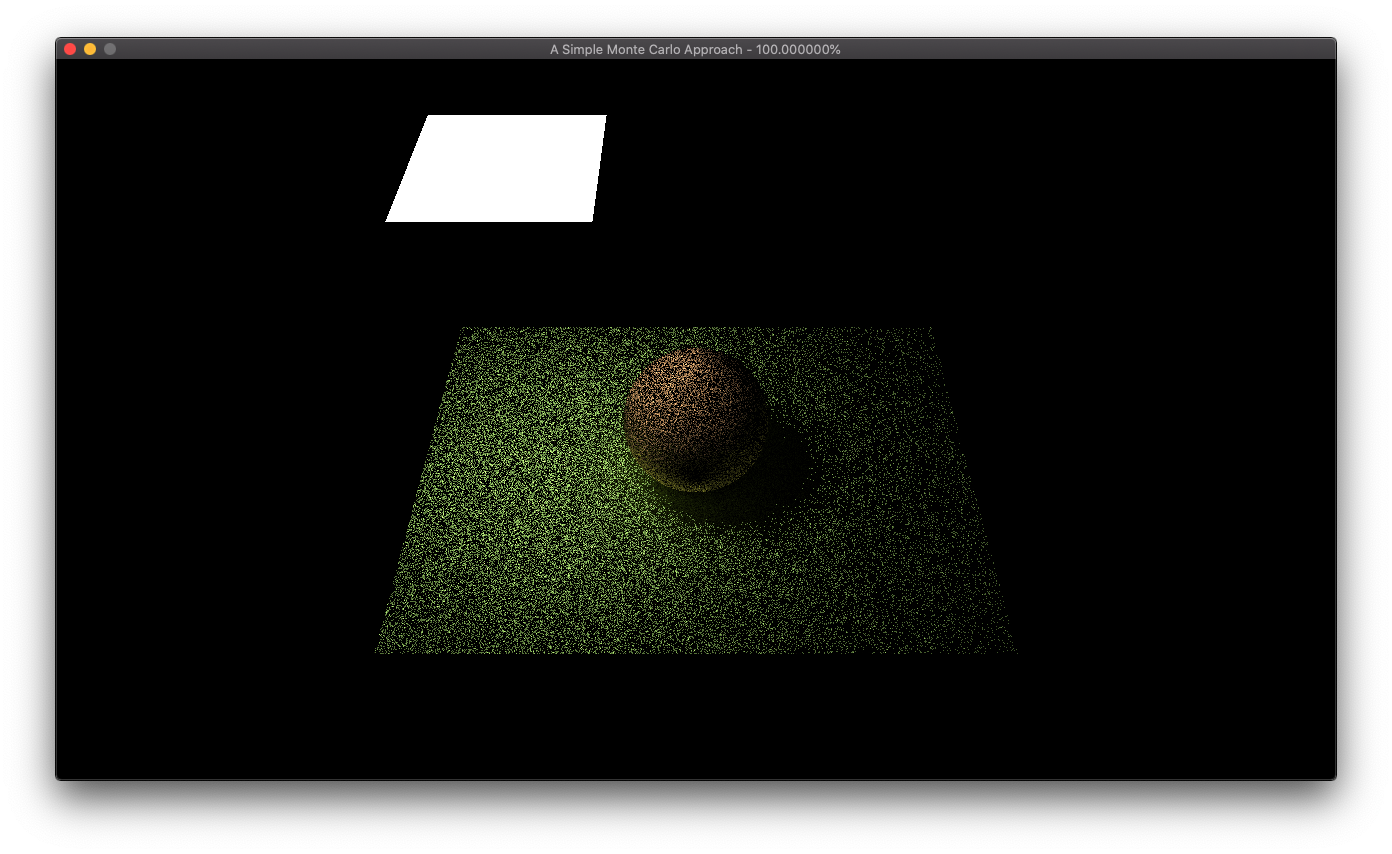
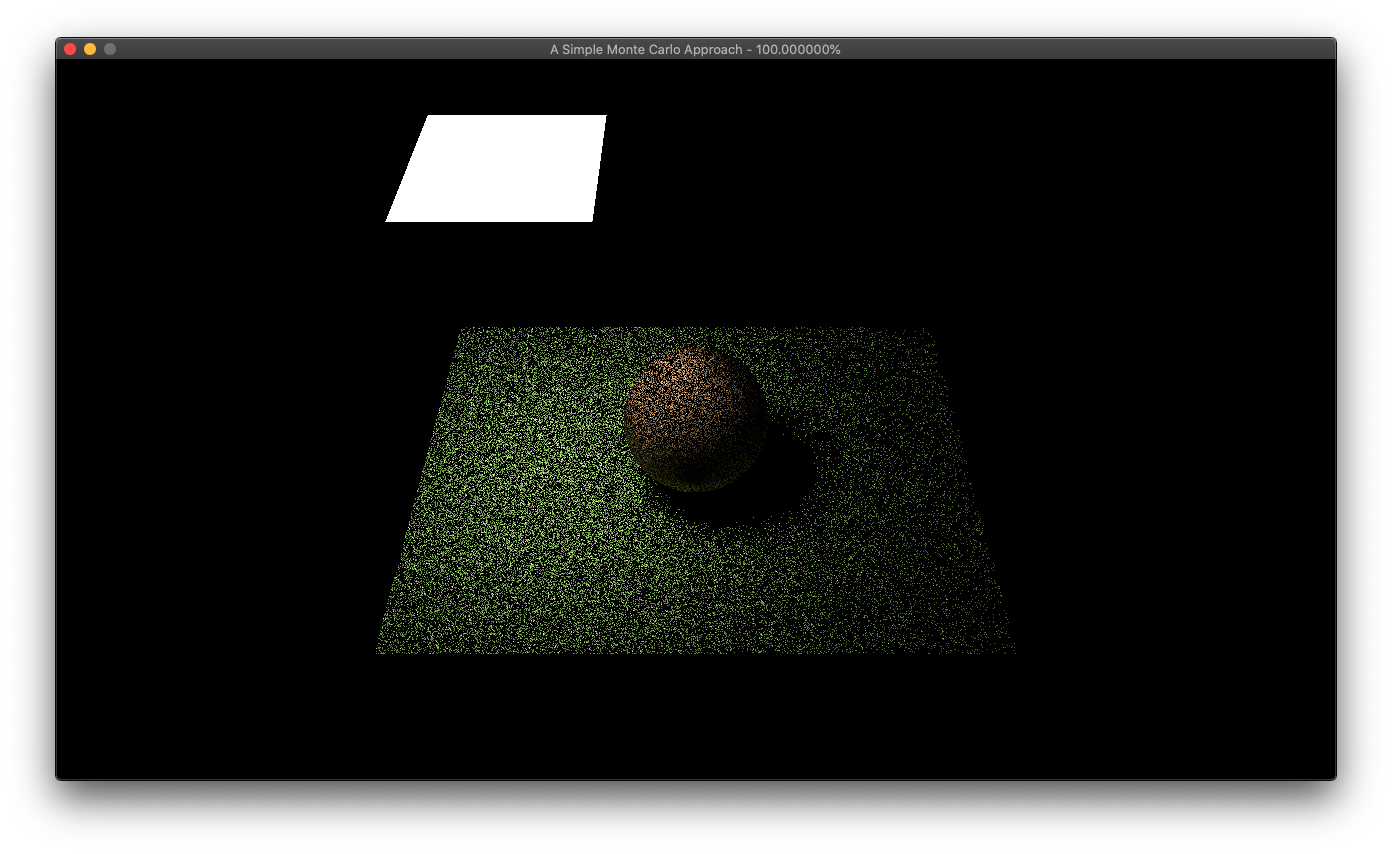
diffuse material is done

Changed region(s): [[0.278, 0.3653, 0.7105, 0.7611]]

diff --git a/1986.Kajiya/code/SimpleMonteCarloApproach.cpp b/1986.Kajiya/code/SimpleMonteCarloApproach.cpp
@@ -9,8 +9,8 @@
 
 namespace RayTracingHistory {
 constexpr float FLOAT_MAX = std::numeric_limits<float>::max();
-constexpr int SIMPLES = 15;
-constexpr int MAX_DEPTH = 4;
+constexpr int SIMPLES = 12;
+constexpr int MAX_DEPTH = 3;
 
 void SimpleMonteCarloApproach::_tileRenderThread(Tile tile, MyScene::Ptr scene,
                                                  MyCamera::Ptr camera) {
@@ -24,6 +24,8 @@ void SimpleMonteCarloApproach::_tileRenderThread(Tile tile, MyScene::Ptr scene,
   int W = mFrameWidth;
   int H = mFrameHeight;
 
+  const glm::vec3 bgColor(0.f, 0.f, 0.f);
+
   for (int y = tile.top; y < tile.bottom; y++)
     for (int x = tile.left; x < tile.right; x++) {
       if (!mRuning) break;
@@ -31,52 +33,58 @@ void SimpleMonteCarloApproach::_tileRenderThread(Tile tile, MyScene::Ptr scene,
       Ray primaryRay =
           pCamera->generateViewingRay((x + 0.5f) / W, (y + 0.5f) / H);
 
-      glm::vec3 color = _traceRay(primaryRay, scene.get(), 0);
+      glm::vec3 color = bgColor;
+      HitRecord hitRec;
+      if (pScene->closestHit(primaryRay, 0.01f, FLOAT_MAX, hitRec)) {
+        MaterialBase* pMtl = static_cast<MaterialBase*>(hitRec.mtl);
+        if (pMtl->getEmission() > 0.1f)
+          color = pMtl->getEmission() * pMtl->getBaseColor(hitRec.uv, hitRec.p);
+        else
+          color =
+              _shade(Ray(hitRec.p, -primaryRay.direction), hitRec, pScene, 0);
+      }
 
       _writePixel(x, y, glm::vec4(color, 1), 0.68f);
       mPixelCount++;
     }  // end of for(x)
 }
 
-glm::vec3 SimpleMonteCarloApproach::_traceRay(Ray ray, MyScene* pScene,
-                                              int depth) {
-  const glm::vec3 bgColor(0.f, 0.f, 0.f);
-  if (depth > MAX_DEPTH) return bgColor;
-
-  HitRecord hitRec;
-  bool bHit = pScene->closestHit(ray, 0.01f, FLOAT_MAX, hitRec);
-  if (!bHit) return bgColor;
-
-  return _shade(ray, hitRec, pScene, depth);
-}
-
-glm::vec3 SimpleMonteCarloApproach::_shade(const Ray& wi,
+glm::vec3 SimpleMonteCarloApproach::_shade(const Ray& wo,
                                            const HitRecord& shadingPoint,
                                            MyScene* pScene, int depth) {
+  if (depth > MAX_DEPTH) return glm::vec3(0);
+
   MaterialBase* pMtl = static_cast<MaterialBase*>(shadingPoint.mtl);
 
   // error check
   if (!pMtl) return glm::vec3(1, 0, 0);
-
   glm::vec3 baseColor = pMtl->getBaseColor(shadingPoint.uv, shadingPoint.p);
-  if (pMtl->getEmission() > 0.001f) {
-    // hit a light
-    return pMtl->getEmission() * baseColor;
-  }
 
   // Monte Carlo Estimating
   glm::vec3 sum(0);
-
-  float Kd = pow(0.68f, depth * depth);
+  float Kd = powf(0.25f, depth * depth);
 
   for (int i = 0; i < SIMPLES; i++) {
-    glm::vec3 bounceDir = pMtl->scatter(shadingPoint.normal);
-    float pdf = pMtl->pdf(bounceDir, shadingPoint.normal);
-    float cosine = glm::dot(bounceDir, shadingPoint.normal);
+    glm::vec3 wi = pMtl->scatter(shadingPoint.normal);
+    float pdf = pMtl->pdf(wi, shadingPoint.normal);
+    float cosine = glm::dot(wi, shadingPoint.normal);
 
-    Ray ray(shadingPoint.p, bounceDir);
-    sum += _traceRay(ray, pScene, depth + 1) * baseColor * Kd * cosine / pdf;
-  }
+    Ray ray(shadingPoint.p, wi);
+    HitRecord hitRec;
+    if (!pScene->closestHit(ray, 0.01f, FLOAT_MAX, hitRec)) continue;
+
+    MaterialBase* pHitMtl = static_cast<MaterialBase*>(hitRec.mtl);
+    if (pHitMtl->getEmission() > 0.1f) {
+      // hit a light
+      glm::vec3 lightColor = pHitMtl->getBaseColor(hitRec.uv, hitRec.p);
+      glm::vec3 CC = pHitMtl->getEmission() * Kd * cosine * lightColor / pdf;
+      sum += CC * baseColor;
+    } else {
+      glm::vec3 CC = _shade(Ray(hitRec.p, -wi), hitRec, pScene, depth + 1);
+      sum += baseColor * CC * Kd * cosine / pdf;
+    }
+
+  }  // end of for
 
   return sum / (float)SIMPLES;
 }

diff --git a/1986.Kajiya/code/LambertianMaterial.h b/1986.Kajiya/code/LambertianMaterial.h
@@ -36,7 +36,7 @@ class LambertianMaterial : public MaterialBase {
   virtual glm::vec3 scatter(const glm::vec3& normal) override {
     ONB onb(normal);
     glm::vec3 rand = _randomCosineDirection();
-    return onb.local(rand);
+    return onb.localToWorld(rand);
   }
 
   virtual float pdf(const glm::vec3& dir, const glm::vec3& normal) override {

diff --git a/1986.Kajiya/code/DiffuseMaterial.h b/1986.Kajiya/code/DiffuseMaterial.h
@@ -24,7 +24,7 @@ class DiffuseMaterial : public MaterialBase {
     glm::vec3 rand = glm::sphericalRand(1.0f);
     rand.z = fabsf(rand.z);
     ONB onb(normal);
-    return onb.local(rand);
+    return onb.localToWorld(rand);
   }
 
   virtual float pdf(const glm::vec3& dir, const glm::vec3& normal) override {

diff --git a/common/geometry/ONB.h b/common/geometry/ONB.h
@@ -35,7 +35,7 @@ struct ONB {
     W = N;
   }
 
-  glm::vec3 local(const glm::vec3& p) { return p.x * U + p.y * V + p.z * W; }
+  glm::vec3 localToWorld(const glm::vec3& p) { return p.x * U + p.y * V + p.z * W; }
 };
 
 }  // namespace RayTracingHistory

diff --git a/README.md b/README.md
@@ -48,6 +48,9 @@
 ## Path Tracing - James Kajiya, 1986
 
 - [ ] TODO
+- Material
+    * [x] Diffuse material / uniform sampling
+    * [ ] Lambertian material / cosine sampling
 
 ![Screen Shot](./1986.Kajiya/images/ScreenShot-2020-06-05.png)
 
